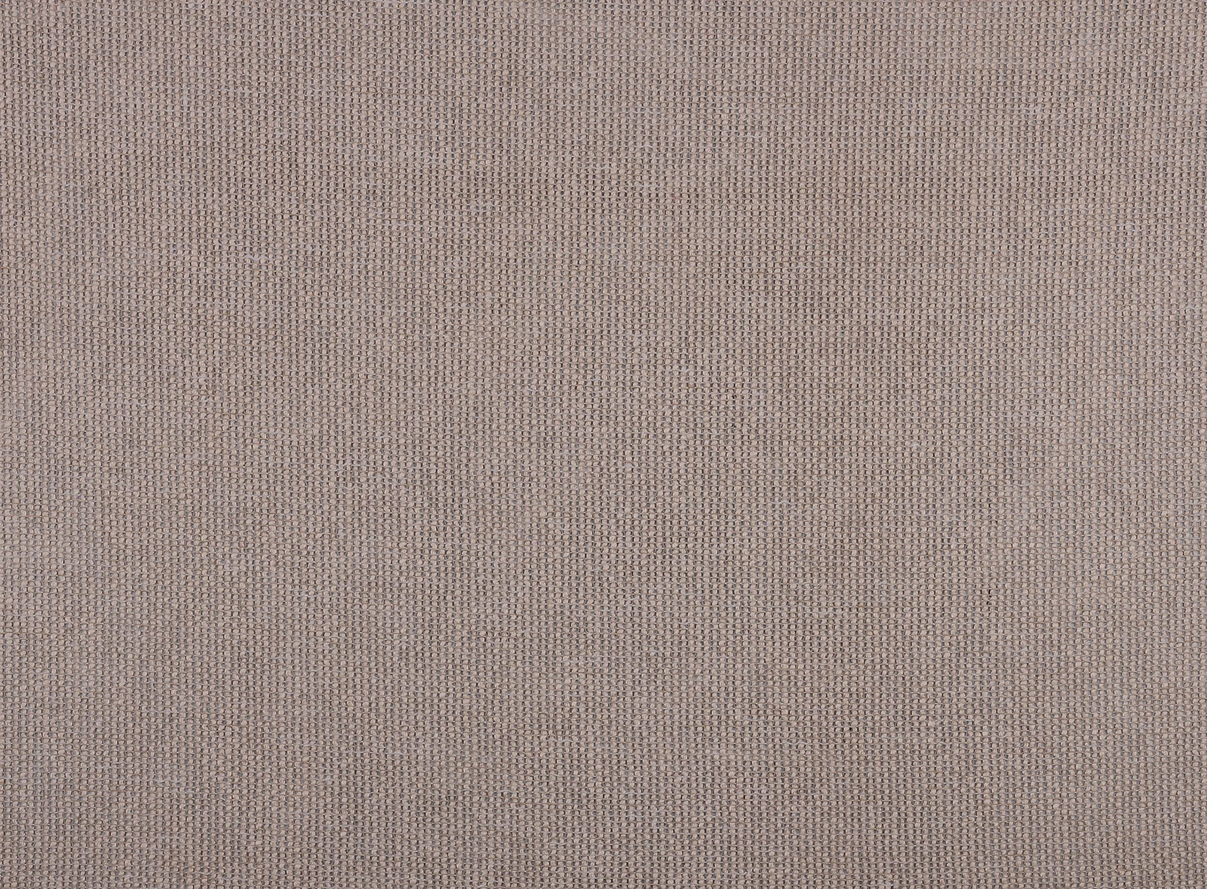
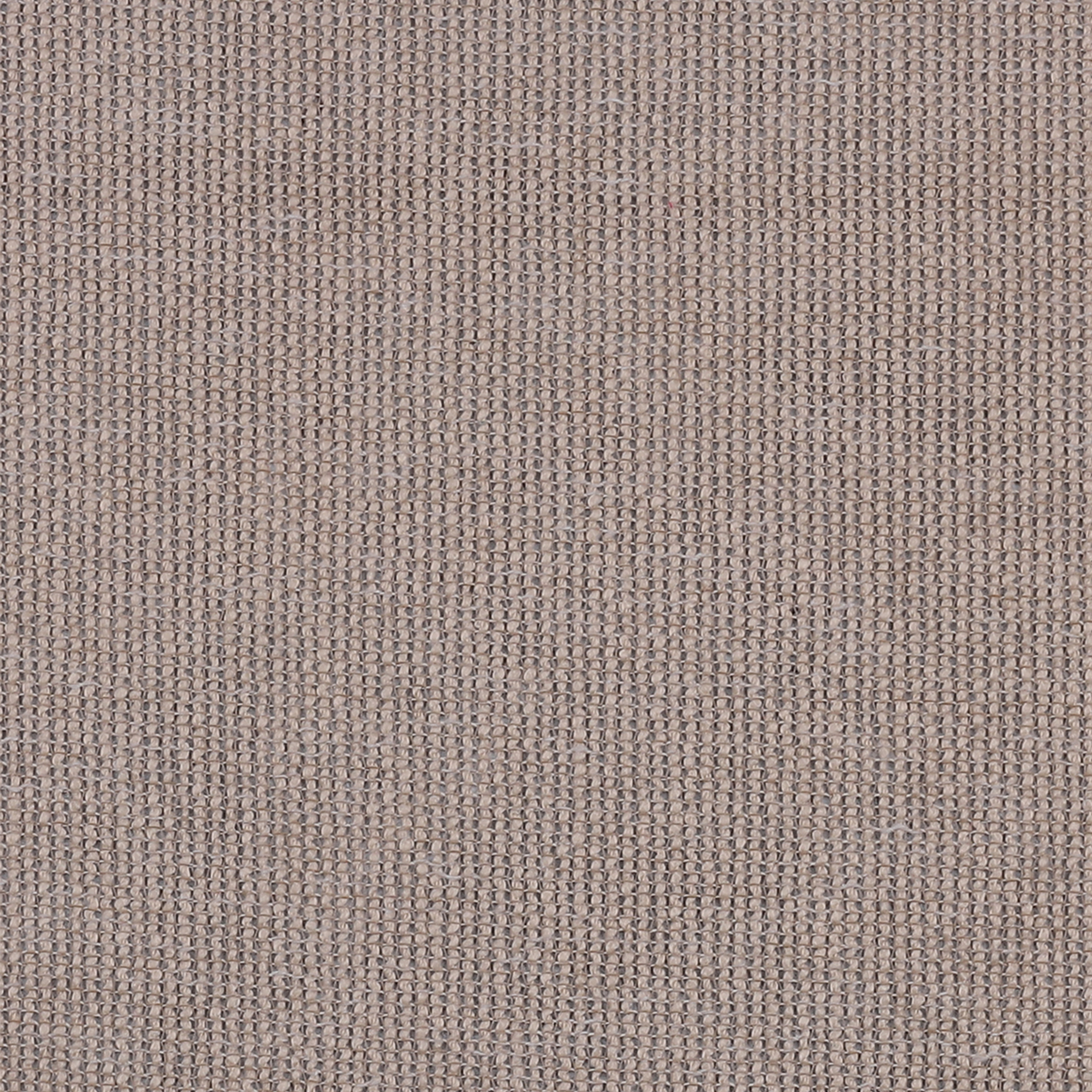
Texture Update
Texture Update

diff --git a/index.html b/index.html
@@ -58,8 +58,8 @@
       top: 10px;
     }</style><script defer="defer" src="bundle.js"></script></head><body><div class="scenedata"><button class="scenebutton" onclick="LoadScene('Chair')" role="button">Chair</button> <button class="scenebutton" onclick="LoadScene('Curtain')" role="button">Regular Curtain</button> <button class="scenebutton" onclick="LoadScene('SheerCurtain')" role="button">Sheer Curtain</button></div><div id="webar"></div></body><script>let textureList = [
     {
-      "name": "1M0A6695",
-      "url": "images/opaque/1M0A6695.jpg",
+      "name": "1M0A6677_crop",
+      "url": "images/opaque/1M0A6677_crop.jpg",
       "scale": 4
     },
     {
@@ -68,33 +68,8 @@
       "scale": 4
     },
     {
-      "name": "1M0A6704",
-      "url": "images/opaque/1M0A6704.jpg",
-      "scale": 4
-    },
-    {
-      "name": "1M0A6712(1)",
-      "url": "images/opaque/1M0A6712(1).jpg",
-      "scale": 4
-    },
-    {
-      "name": "1M0A6714",
-      "url": "images/opaque/1M0A6714.jpg",
-      "scale": 4
-    },
-    {
-      "name": "1M0A6716(1)",
-      "url": "images/opaque/1M0A6716(1).jpg",
-      "scale": 4
-    },
-    {
-      "name": "1M0A6719",
-      "url": "images/opaque/1M0A6719.jpg",
-      "scale": 4
-    },
-    {
-      "name": "1M0A6721",
-      "url": "images/opaque/1M0A6721.jpg",
+      "name": "1M0A6707_crop",
+      "url": "images/opaque/1M0A6707_crop.jpg",
       "scale": 4
     },
     {
@@ -113,28 +88,18 @@
       "scale": 4
     },
     {
-      "name": "1M0A6733",
-      "url": "images/opaque/1M0A6733.jpg",
-      "scale": 4
-    },
-    {
       "name": "1M0A6736",
       "url": "images/opaque/1M0A6736.jpg",
       "scale": 4
     },
     {
-      "name": "1M0A6753",
-      "url": "images/opaque/1M0A6753.jpg",
+      "name": "1M0A6740",
+      "url": "images/opaque/1M0A6740.jpg",
       "scale": 4
     },
     {
-      "name": "1M0A6758",
-      "url": "images/opaque/1M0A6758.jpg",
-      "scale": 4
-    },
-    {
-      "name": "1M0A6765",
-      "url": "images/opaque/1M0A6765.jpg",
+      "name": "1M0A6765(1)",
+      "url": "images/opaque/1M0A6765(1).jpg",
       "scale": 4
     },
     {
@@ -148,13 +113,13 @@
       "scale": 4
     },
     {
-      "name": "1M0A6770",
-      "url": "images/opaque/1M0A6770.jpg",
+      "name": "image_1",
+      "url": "images/opaque/image_1.jpg",
       "scale": 4
     },
     {
-      "name": "Untitled-1",
-      "url": "images/opaque/Untitled-1.jpg",
+      "name": "image_2",
+      "url": "images/opaque/image_2.jpg",
       "scale": 4
     }
   ];

diff --git a/style/style.css b/style/style.css
@@ -77,6 +77,11 @@ model-viewer {
     margin: 5px;
 }
 
+.material-image-wrapper{
+    display: flex;
+    justify-content: center;
+}
+
 @media only screen and (min-height: 600px) {
     .material-image-wrapper div img {
         width: 60px;
@@ -97,9 +102,8 @@ model-viewer {
     overflow-y: hidden;
     scroll-behavior: auto;
     height: 90px;
-    width: 100%;
     align-items: flex-start;
-    justify-content: center;
+    justify-content: start;
 }
 
 #material_collection label{
